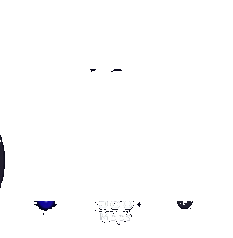
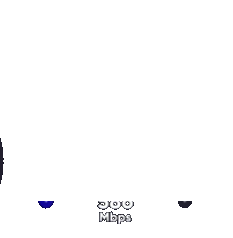
Fix Lab meter template rendering artifacts
- Remove blur/pulse filters that caused black blocks around transparent template
- Regenerate template with chroma-key background removal

Made-with: Cursor

diff --git a/crush-pipeline.js b/crush-pipeline.js
@@ -588,13 +588,8 @@ function buildLabMeterOverlayParts({ brandNorm, outDur, fontPart, labMeter }) {
     filters: [
       // Base: Speedtest gauge template (transparent PNG), scaled and overlaid at (cx,cy) center.
       `[${tmplIdx}:v]format=rgba,scale=iw*2.30:ih*2.30[tmpl0]`,
-      `[v1][tmpl0]overlay=x=${cx}-w/2:y=${cy}-h/2:format=auto[lm0]`,
-      // Checkpoint subtle pulse: glow-tinted template, enabled briefly.
-      `[tmpl0]colorchannelmixer=aa=0.55,lutrgb=r='min(255,val*1.15)':g='min(255,val*1.15)':b='min(255,val*1.15)',gblur=sigma=2.0:steps=1[tmplPulse]`,
-      `[lm0][tmplPulse]overlay=x=${cx}-w/2:y=${cy}-h/2:format=auto:enable='${pulseEnable}'[lm1]`,
-      // Target hit burst: brighter + slightly warm/white.
-      `[tmpl0]colorchannelmixer=aa=0.80,lutrgb=r='min(255,val*1.45)':g='min(255,val*1.35)':b='min(255,val*1.55)',gblur=sigma=3.0:steps=1[tmplHit]`,
-      `[lm1][tmplHit]overlay=x=${cx}-w/2:y=${cy}-h/2:format=auto:enable='${targetEnable}'[lm2]`,
+      // Important: do NOT blur the template; blur mixes transparent pixels into dark blocks.
+      `[v1][tmpl0]overlay=x=${cx}-w/2:y=${cy}-h/2:format=auto[lm2]`,
       // needle layer
       `color=c=black@0.0:s=${needleSize}x${needleSize}:d=99999,format=rgba,` +
         `drawbox=x=${Math.round(needleSize / 2 - needleW / 2)}:y=${Math.round(needleSize / 2 - needleLen)}:w=${needleW}:h=${needleLen}:color=${accentHex}@0.92:t=fill,` +

diff --git a/tools/gen_speedtest_template_b64.py b/tools/gen_speedtest_template_b64.py
@@ -4,7 +4,6 @@ import base64
 import io
 from pathlib import Path
 
-import colorsys
 from PIL import Image, ImageDraw
 
 
@@ -20,42 +19,23 @@ def main() -> None:
     w, h = im.size
     px = im.load()
 
-    # Background -> transparent using a hybrid:
-    # - Remove pixels close to sampled background colors (corners)
-    # - Keep arc pixels (saturated) and tick pixels (bright)
-    for y in range(h):
-        for x in range(w):
-            r, g, b, a = px[x, y]
-            if a == 0:
-                continue
-            rr, gg, bb = r / 255.0, g / 255.0, b / 255.0
-            _, s, v = colorsys.rgb_to_hsv(rr, gg, bb)
-            keep_arc = (s >= 0.28 and v >= 0.10)
-            keep_tick = (v >= 0.78 and s <= 0.28)
-            if not (keep_arc or keep_tick):
-                px[x, y] = (r, g, b, 0)
-
-    # Chroma-key style cleanup for any remaining background gradients
+    # Background -> transparent by chroma-key against sampled corner colors.
+    # This preserves the exact look of the arc/ticks (no HSV heuristics).
     bg_samples = [
         px[2, 2][:3],
         px[w - 3, 2][:3],
         px[2, h - 3][:3],
         px[w - 3, h - 3][:3],
     ]
-    bg_thr = 65  # sum abs channel distance
+    bg_thr = 52  # sum abs distance; tuned for the screenshot background gradient
     for y in range(h):
         for x in range(w):
             r, g, b, a = px[x, y]
             if a == 0:
                 continue
-            rr, gg, bb = r / 255.0, g / 255.0, b / 255.0
-            _, s, v = colorsys.rgb_to_hsv(rr, gg, bb)
-            keep_arc = (s >= 0.28 and v >= 0.10)
-            keep_tick = (v >= 0.78 and s <= 0.28)
-            if keep_arc or keep_tick:
-                continue
-            for br, bg, bb2 in bg_samples:
-                if abs(r - br) + abs(g - bg) + abs(b - bb2) <= bg_thr:
+            # If this pixel is close to ANY background sample, drop it.
+            for br, bg, bb in bg_samples:
+                if abs(r - br) + abs(g - bg) + abs(b - bb) <= bg_thr:
                     px[x, y] = (r, g, b, 0)
                     break
 
@@ -70,17 +50,17 @@ def main() -> None:
     cx, cy = w // 2, int(h * 0.52)
     d.polygon([(cx, cy), (w, cy - 35), (w, cy + 25)], fill=(0, 0, 0, 0))
 
-    # Final cleanup: drop any remaining low-saturation dark pixels (background remnants).
+    # Final cleanup: remove near-background pixels again after text erases.
     px = im.load()
     for y in range(h):
         for x in range(w):
             r, g, b, a = px[x, y]
             if a == 0:
                 continue
-            rr, gg, bb = r / 255.0, g / 255.0, b / 255.0
-            _, s, v = colorsys.rgb_to_hsv(rr, gg, bb)
-            if s < 0.22 and v < 0.70:
-                px[x, y] = (r, g, b, 0)
+            for br, bg, bb in bg_samples:
+                if abs(r - br) + abs(g - bg) + abs(b - bb) <= bg_thr:
+                    px[x, y] = (r, g, b, 0)
+                    break
 
     buf = io.BytesIO()
     im.save(buf, format="PNG", optimize=True)